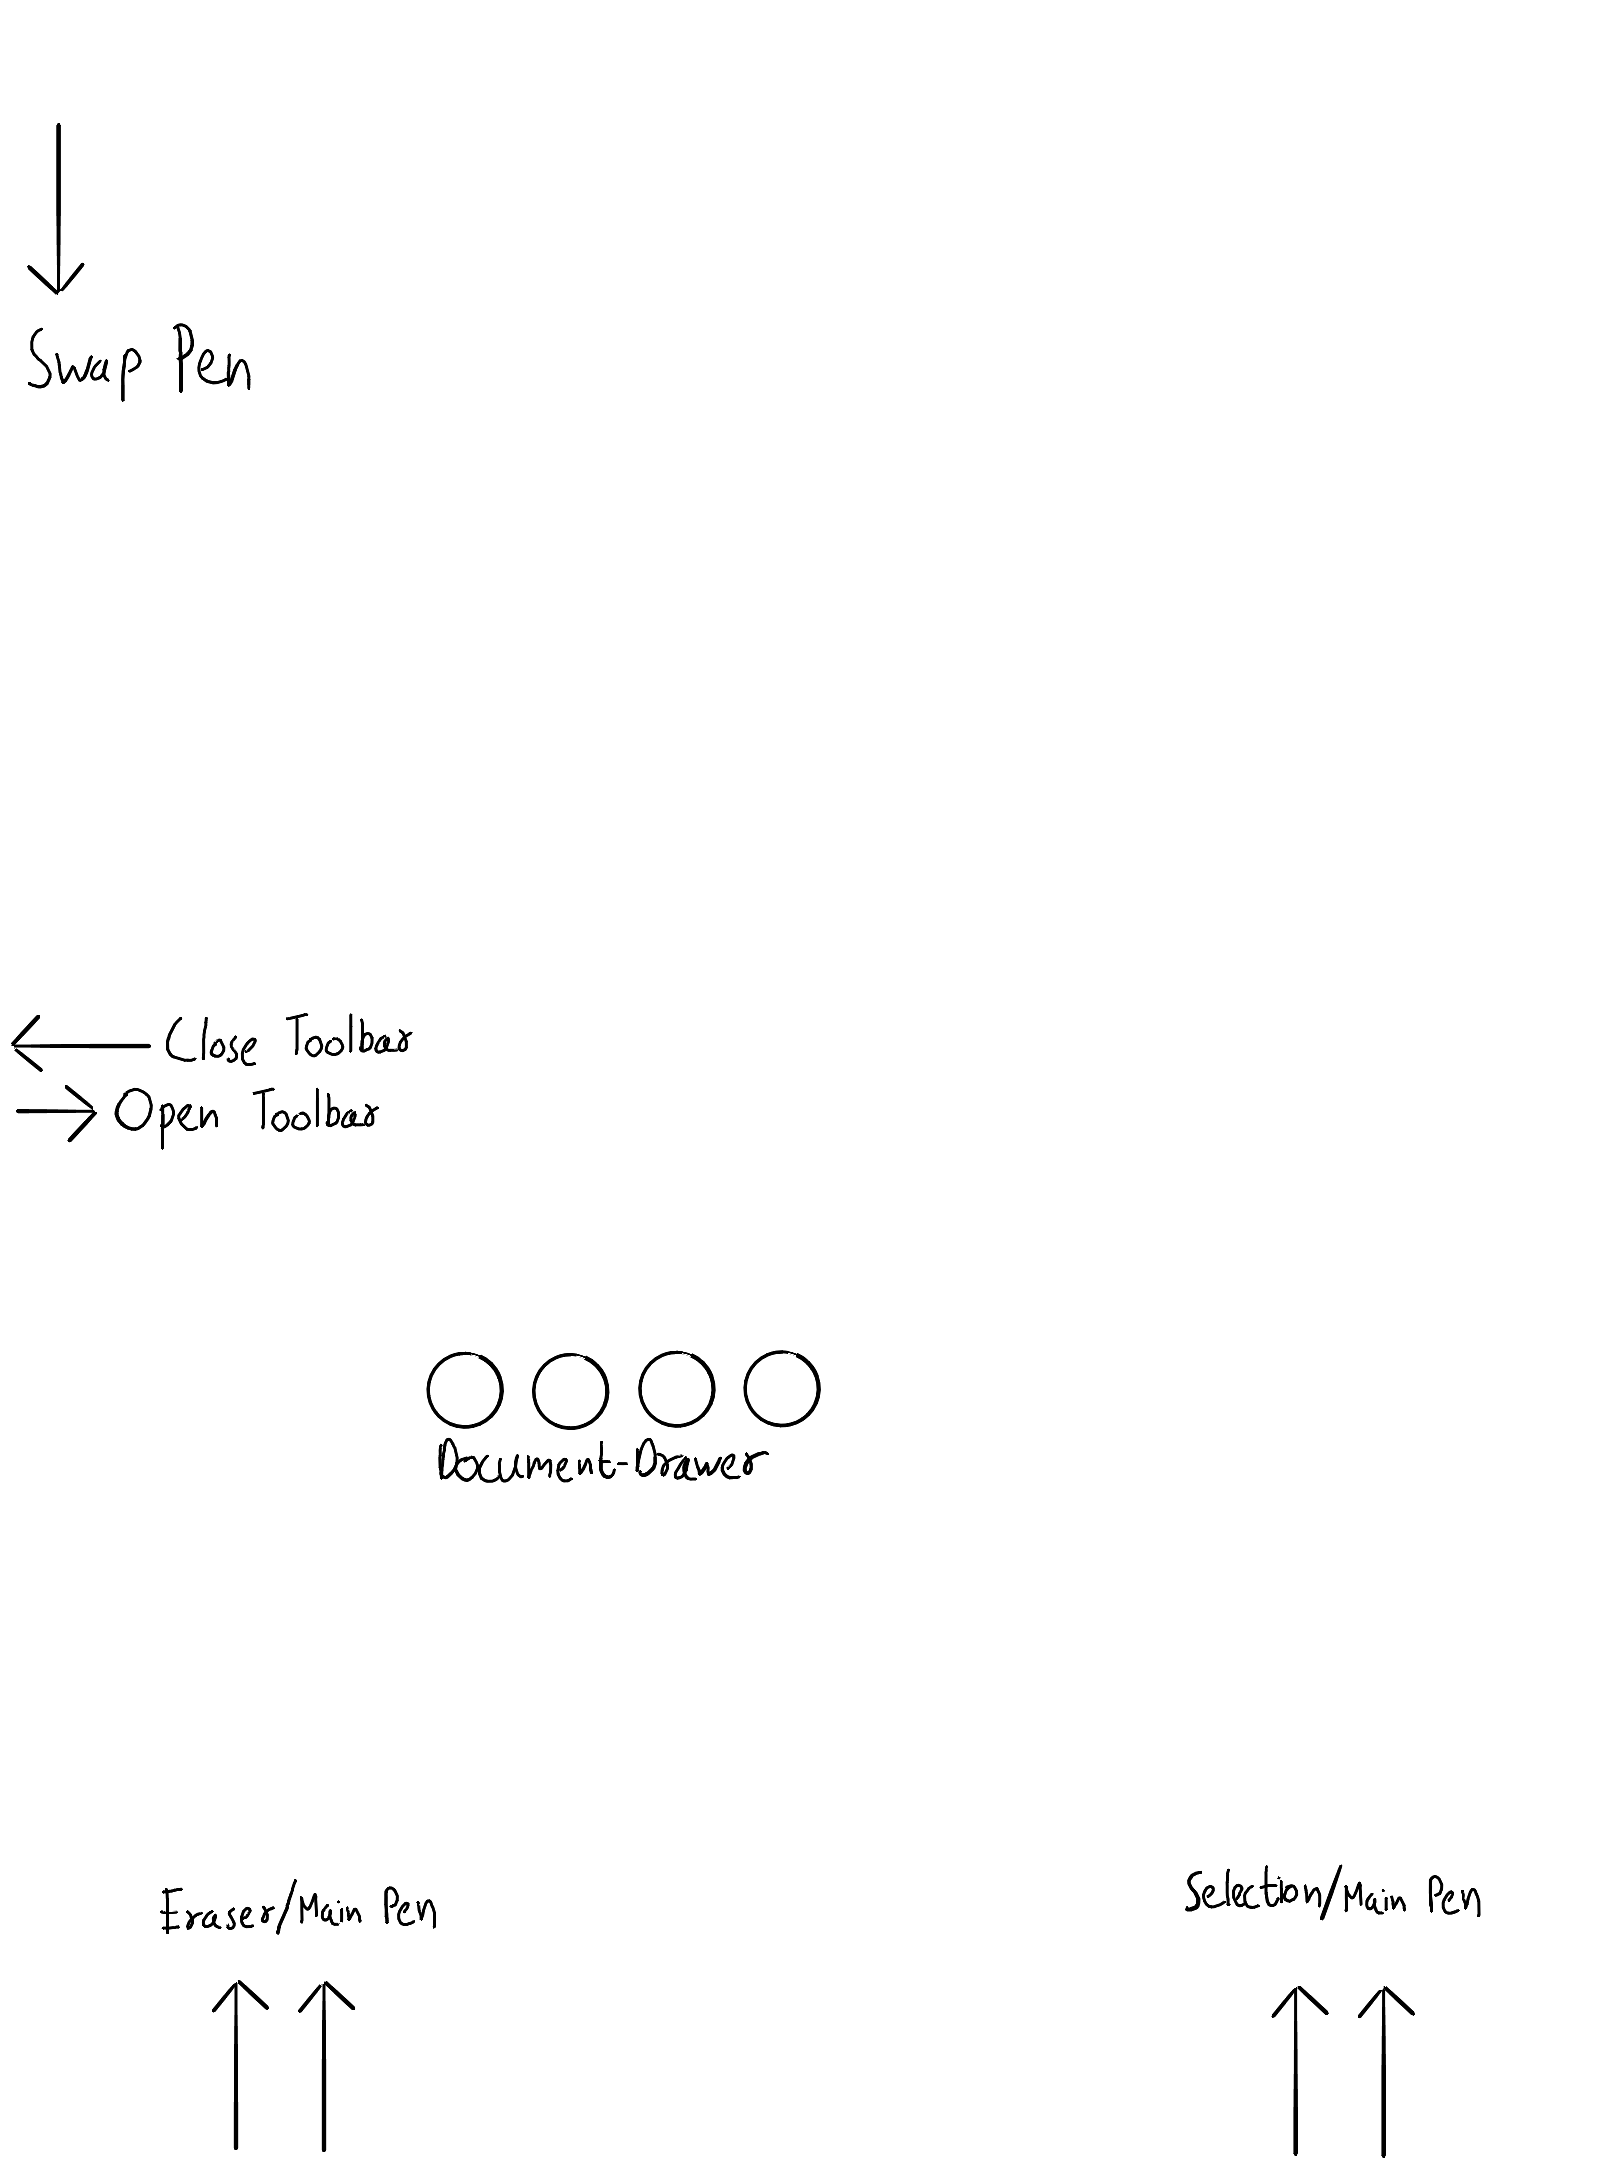
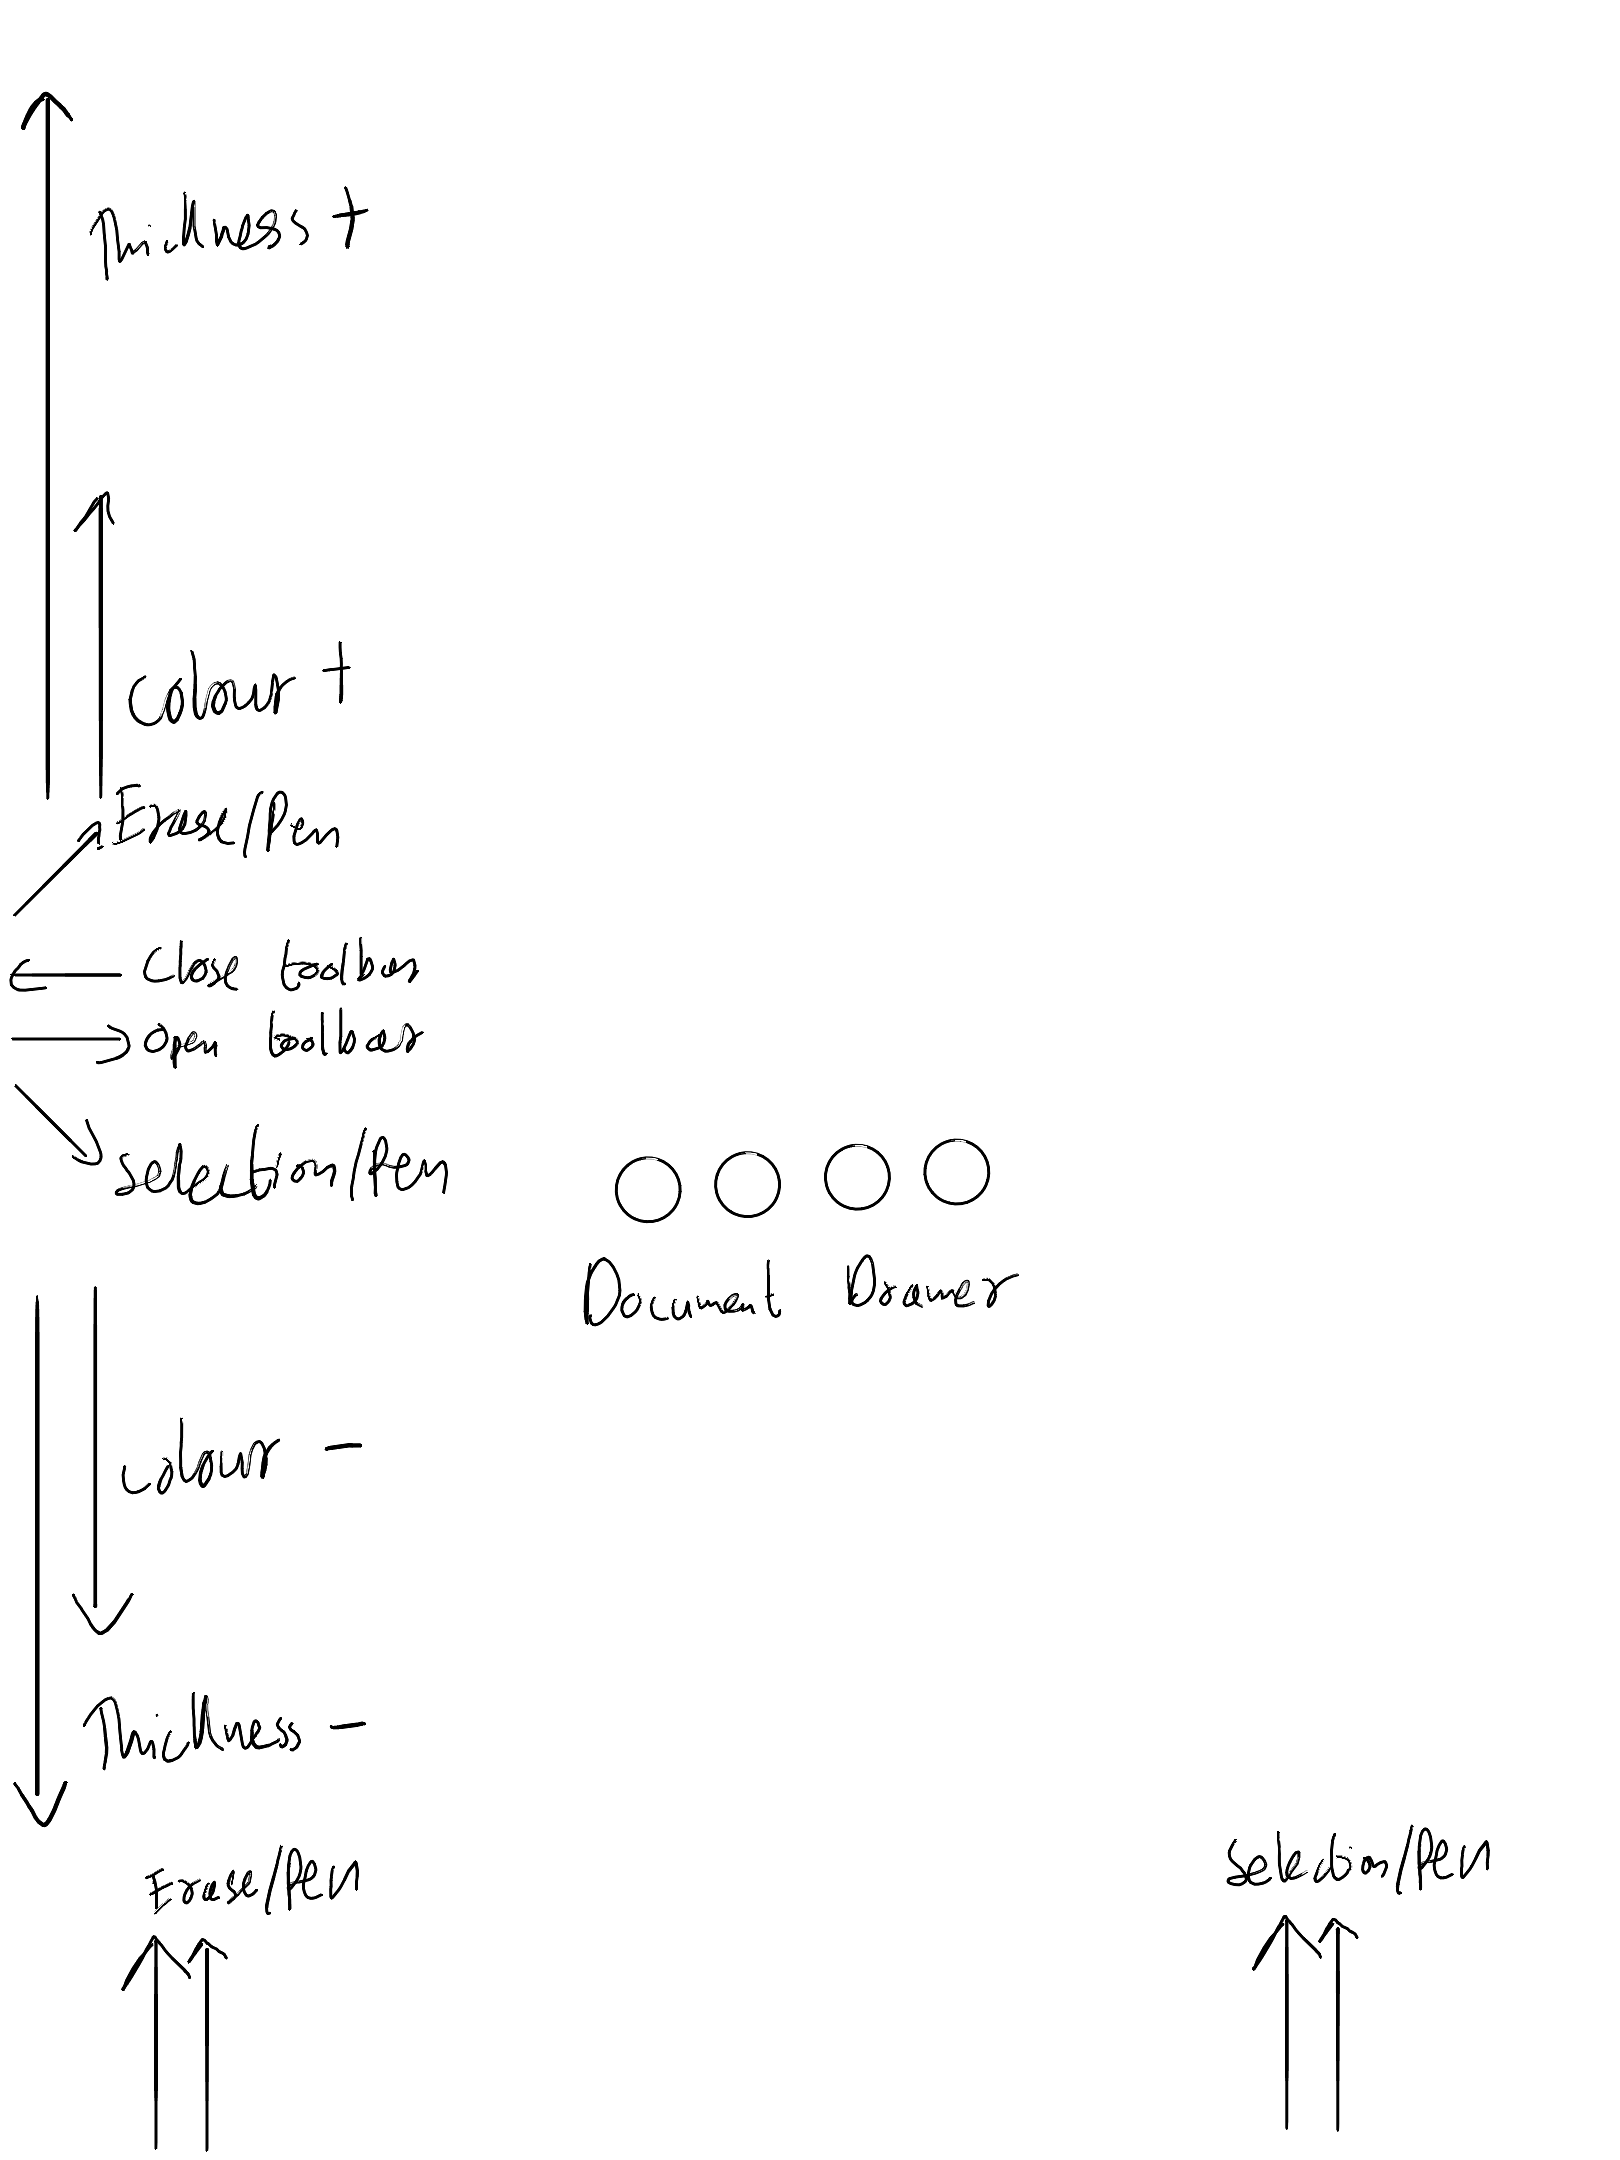
Fix README with new info+image

diff --git a/README.md b/README.md
@@ -1,16 +1,13 @@
 # repo of xovi extensions
 
-> [!WARNING]  
-> `toolbar.qmd` and `Gesture.qmd` is currently broken due to a qmldiff hash issue. For now, they are both unusable. The other mods work fine.
-> Use `Gesture-temp-fix.qmd` and `toolbar-temp-fix.qmd` for now. 
-
 This Repo consists of multiple Xovi(.qmd) extensions that are QoL improvements to the xochitl interface. This **needs** qt-resource-rebuilder.so to work.
 
 Download the extensions from the corresponding folders to avoid issues. 
 
 Instructions to install xovi can be found in [here](https://github.com/asivery/rmpp-xovi-extensions/blob/master/INSTALL.MD). 
 
-The QMD files in this repo add a quicktools-like floating bar, and a layer management bar. Instructions to install xovi can be found in [here](https://github.com/asivery/rmpp-xovi-extensions/blob/master/INSTALL.MD). 
+The QMD files in this repo add a quicktools-like floating bar, layer management bar, and multiple gestures 
+Instructions to install xovi can be found in [here](https://github.com/asivery/rmpp-xovi-extensions/blob/master/INSTALL.MD). 
 
 After which, copy the files to `/home/root/xovi/exthome/qt-resource-rebuilder/` and restart xovi. 
 
@@ -19,7 +16,7 @@ These QMDs were tested to work in 3.15/16 and 3.17. Any bugs should be reported 
 
 ## Extensions
 
-### 1. Edit.qmd
+### 1. selectionErase.qmd
 - Adds the ability to delete a stroke once selected by the selection tool.
   
 ![image](images/DelStroke.png)
@@ -30,27 +27,31 @@ open the favourites and tagged view with a click.
 
 ![image](images/favTagButton.png)
 
-### 3. Gesture.qmd
+### 3. gestures.qmd
 - Adds a couple of gestures that are nice-to-have(Note: These have only been tested on right-handed mode. So left-handed mode would behave slightly differently)
 1. Swipe on left edge of the page to open/close the toolbar(Swipe towards the edge to close it, swipe from the edge to open it)
-2. While in fullscreen, swipe down from the toolbar icon to swap between the primary and secondary tool
-3. Swipe with two-fingers from the left half of the bottom-edge to swap between eraser and pen
-4. Swipe with two-fingers from the right half of the bottom-edge to swap between selection tool and pen
-5. 4-Finger tap to open the document drawer
+2. Swipe with two-fingers from the left half of the bottom-edge to swap between eraser and pen
+3. Swipe with two-fingers from the right half of the bottom-edge to swap between selection tool and pen
+4. 4-Finger tap to open the document drawer
+5. The edge while in fullscreen has multiple gestures. 
+5.1 Long swipe up/down changes thickness
+5.2 Short swipe up/down changes colour depending on the config
+5.3 Diagonal swipe up from the middle of the edge swaps between Eraser tool and pen
+5.4 Diagonal swipe down from the middle of the edge swaps between Selection tool and pen
 
-![image](images/Gestures.png)
+![image](images/gestures.png)
 
-### 4. recentsTag.qmd
-- Adds a new menu to the document drawer that shows only tagged files, sort by last modified
+### 4. recentsTagged.qmd
+- Adds a new menu to the document drawer that shows only tagged files, sorted by last modified
 
 ![image](images/RecentsTag.png)
 
-### 5. selectionBoth.qmd
+### 5. selectionStuff.qmd
 - Adds the ability to select everything above the line
 
 ![image](images/selBoth.png)
 
-### 6. toolbar.qmd
+### 6. floating.qmd
 - Allows adding any tool with a preset colour and thickness
 - Allows changing the added tool order
 - Can be placed anywhere in the screen
@@ -59,19 +60,29 @@ open the favourites and tagged view with a click.
 - Config persists between restarts(Enabled state, position, tools list)
 - 3 Presets of tools to change to
 - Floating Layers menu fully replaces system equivalent except for renaming the layer
-- (New) Changes to a vertical bar when moved to the left/right edge of the screen
+- Changes to a vertical bar when moved to the left/right edge of the screen
 
-NOTE: the last couple of lines are commented with a ;. This adds an X button to the toolbar to close the document.
+
+### 7. toolbar_icon.qmd
+- Adds an icon with current tool, thickness, and colour in place of the toolbar-expand button while the toolbar is hidden
+
+![image](images/toolbar_icon.png)
+
+### 8. gestureColourSettings.qmd
+- A menu in accessibility menu to choose which colours to swap between with Pens, highlighters, or shaders
+
+![image](images/access.png)
 
 #### Moving the toolbars
-##### Press and hold the left-most icon until it's highlighted. After which, press and drag the icon to move it around
+##### Press and hold the left-most icon, then drag the icon to move it around. The toolbar will turn completely blank to improve refresh speeds while moving it around
+
 
 #### To change tool order
 To change the tool order, press and hold on any tool button(s) to show the arrows, and change the order using them.
 Note: The arrows won't show up unless you have the base toolbar open.
 
 #### To Minimize
-Double tap the top-left icon
+Press and hold the left-most icon
 
 
 ![image](images/menu.png)
@@ -82,11 +93,13 @@ Double tap the top-left icon
 
 *Layer menu*
 
-![image](images/toolbarHor.png)
+![image](images/toolbar_hor_add.png)
+
+![image](images/toolbar_hor_rem.png)
 
 *Toolbar Default*
 
-![image](images/toolbarHorMove.png)
+![image](images/toolbar_hor_move.png)
 
 *Toolbar tool order change*
 
@@ -94,15 +107,18 @@ Double tap the top-left icon
 
 *Toolbar while in fullscreen*
 
-![image](images/toolbarVer.png)
+![image](images/toolbar_ver_add.png)
+
+![image](images/toolbar_ver_rem.png)
+
 
 *Toolbar when near the side edges*
 
-![image](images/toolbarVerMove.png)
+![image](images/toolbar_ver_move.png)
 
 *Change Order Buttons*
 
-![image](images/toolbarVerFS.png)
+![image](images/toolbar_ver_fs.png)
 
 *fullscreen*
 
